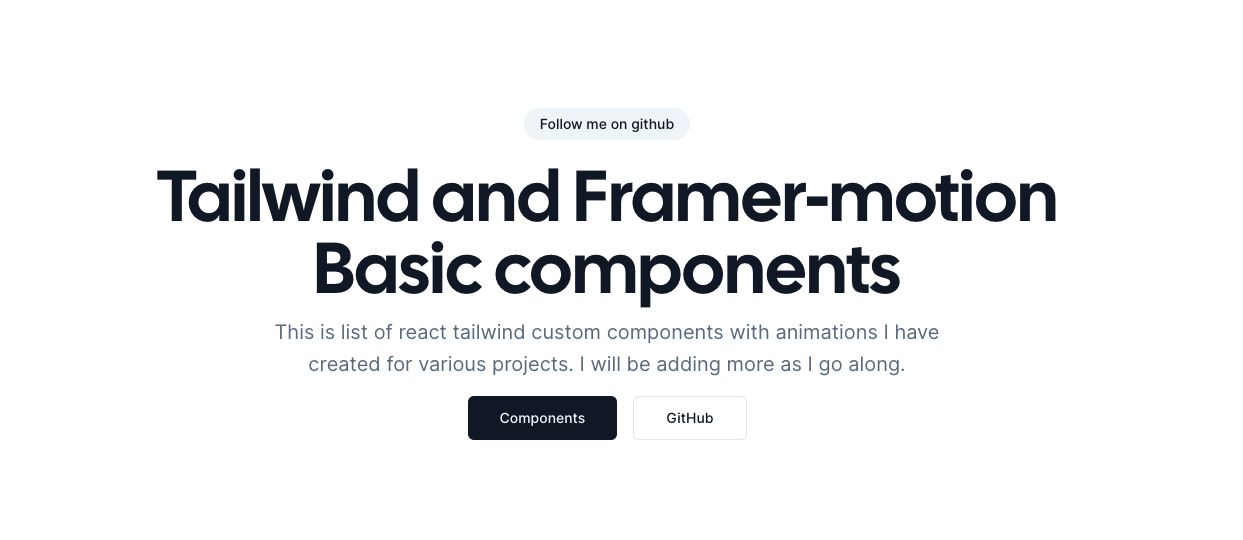
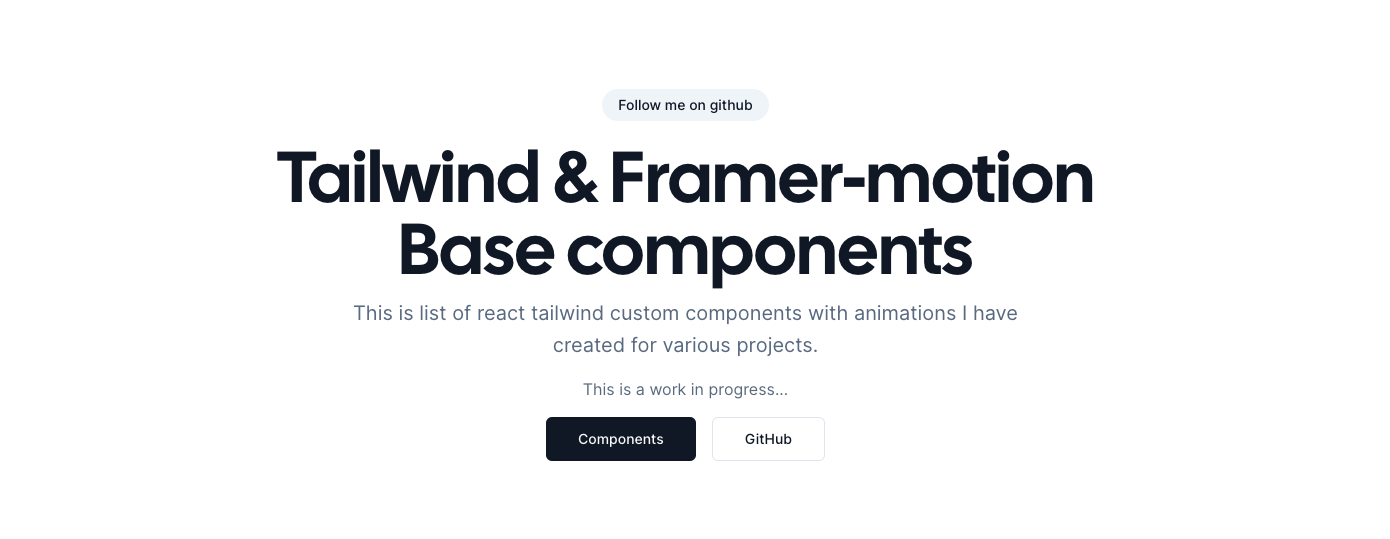
updated seo image

Changed region(s): [[0.1223, 0.2672, 0.856, 0.8609], [0.428, 0.1781, 0.5503, 0.2375]]

diff --git a/app/(marketing)/page.tsx b/app/(marketing)/page.tsx
@@ -46,7 +46,7 @@ export default async function IndexPage() {
             Follow me on github
           </Link>
           <h1 className="font-heading text-3xl sm:text-5xl md:text-6xl lg:text-7xl">
-            Tailwind and Framer-motion Basic components
+            Tailwind & Framer-motion Base components
           </h1>
           <p className="max-w-[42rem] leading-normal text-muted-foreground sm:text-xl sm:leading-8">
             This is list of react tailwind custom components with animations I
